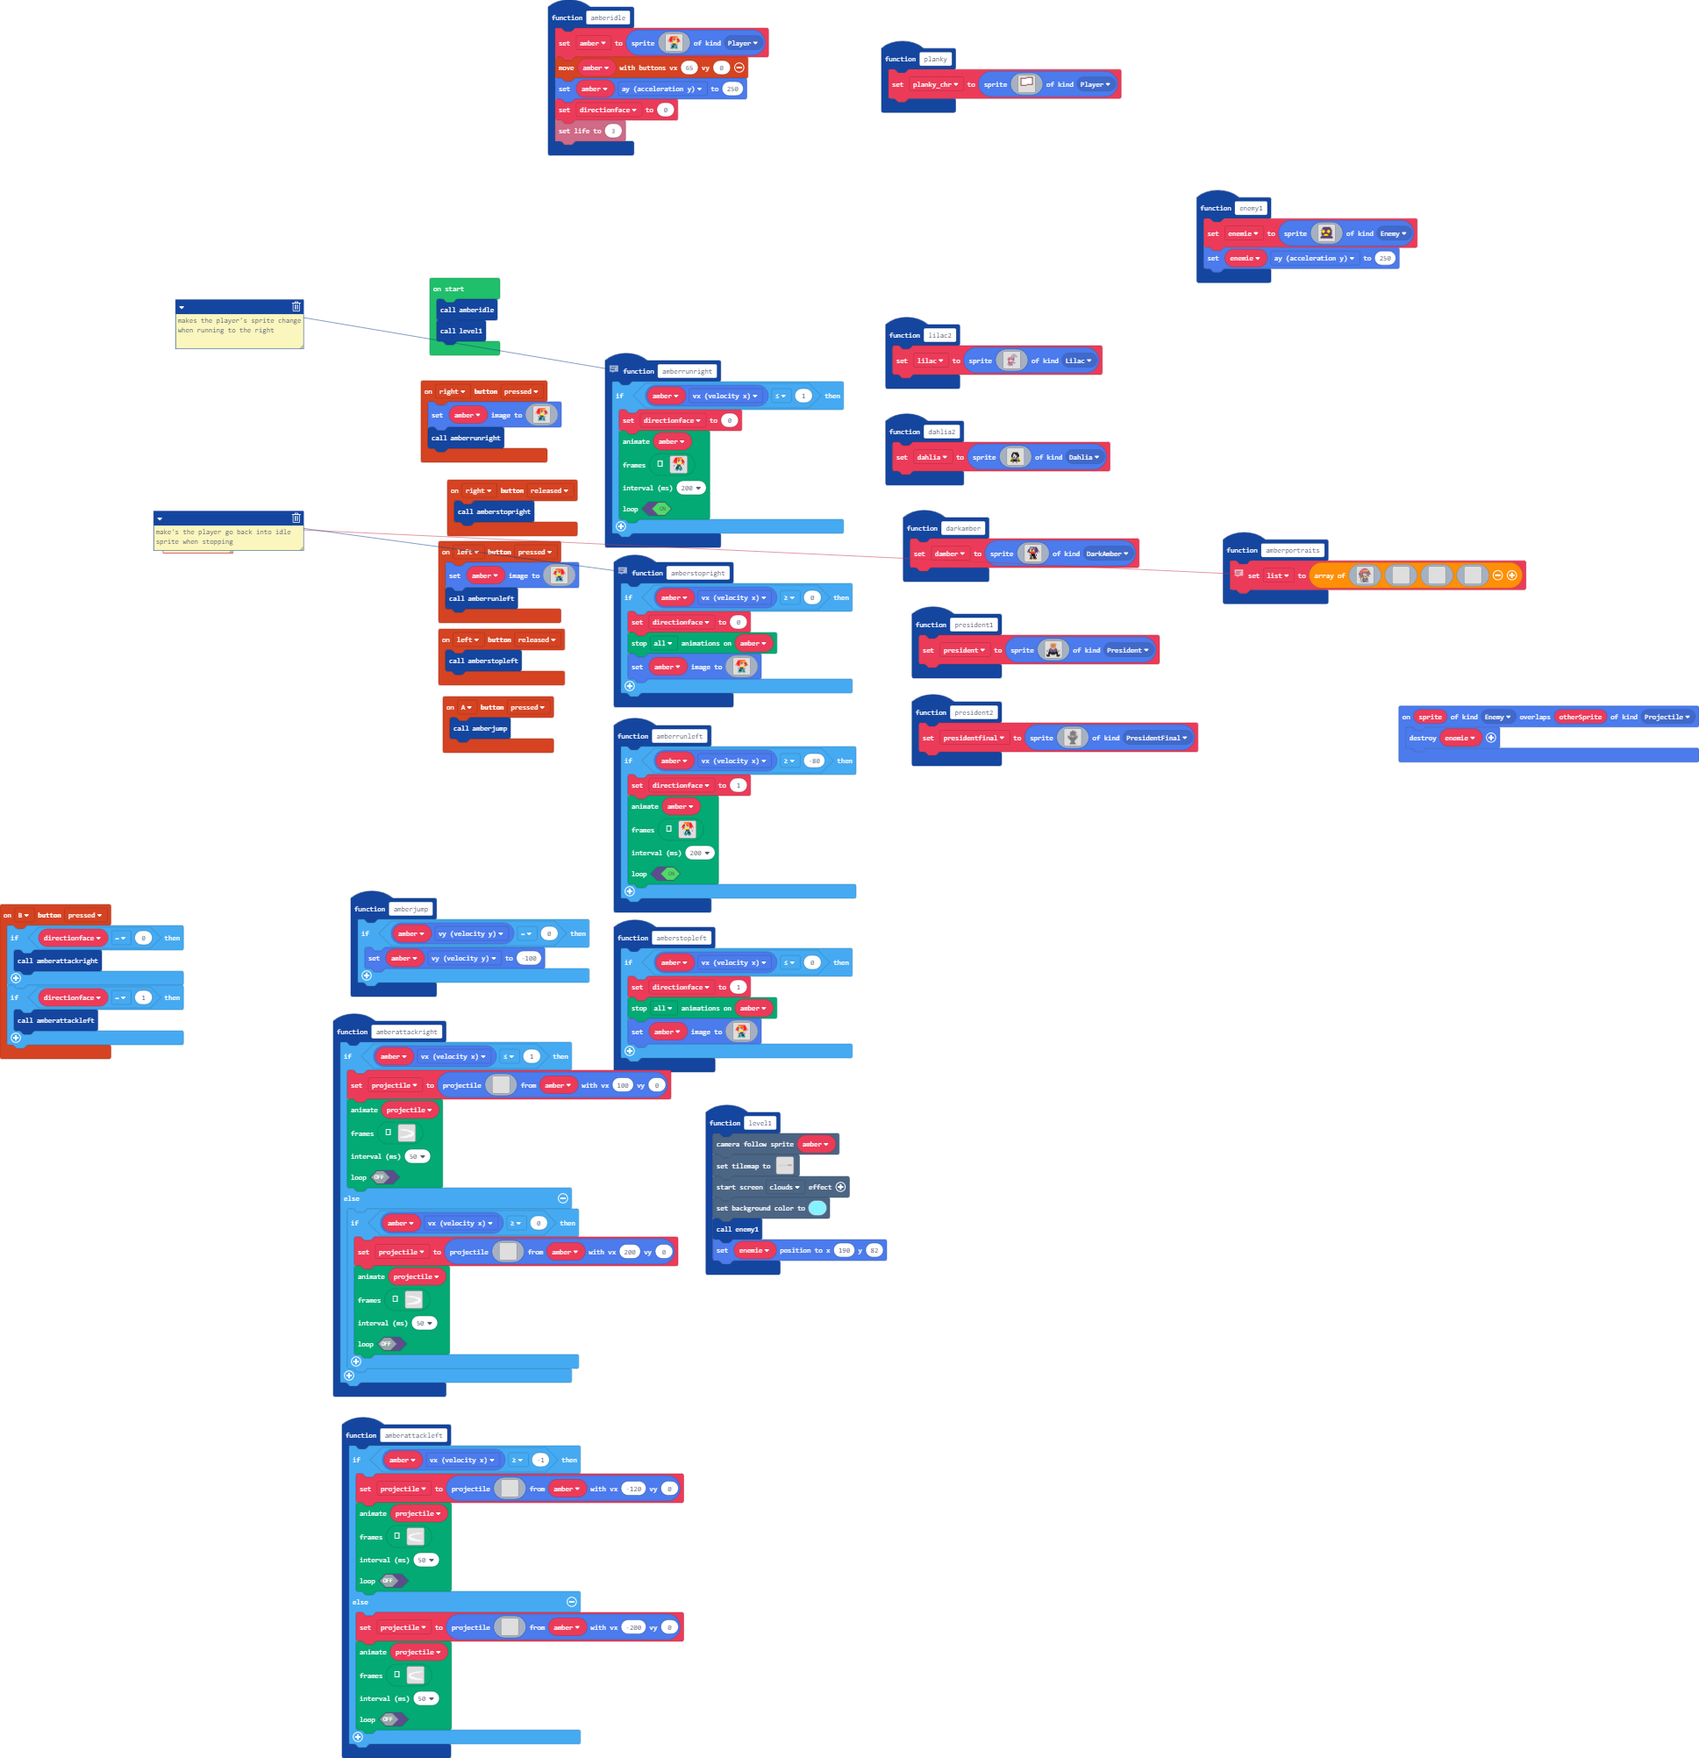
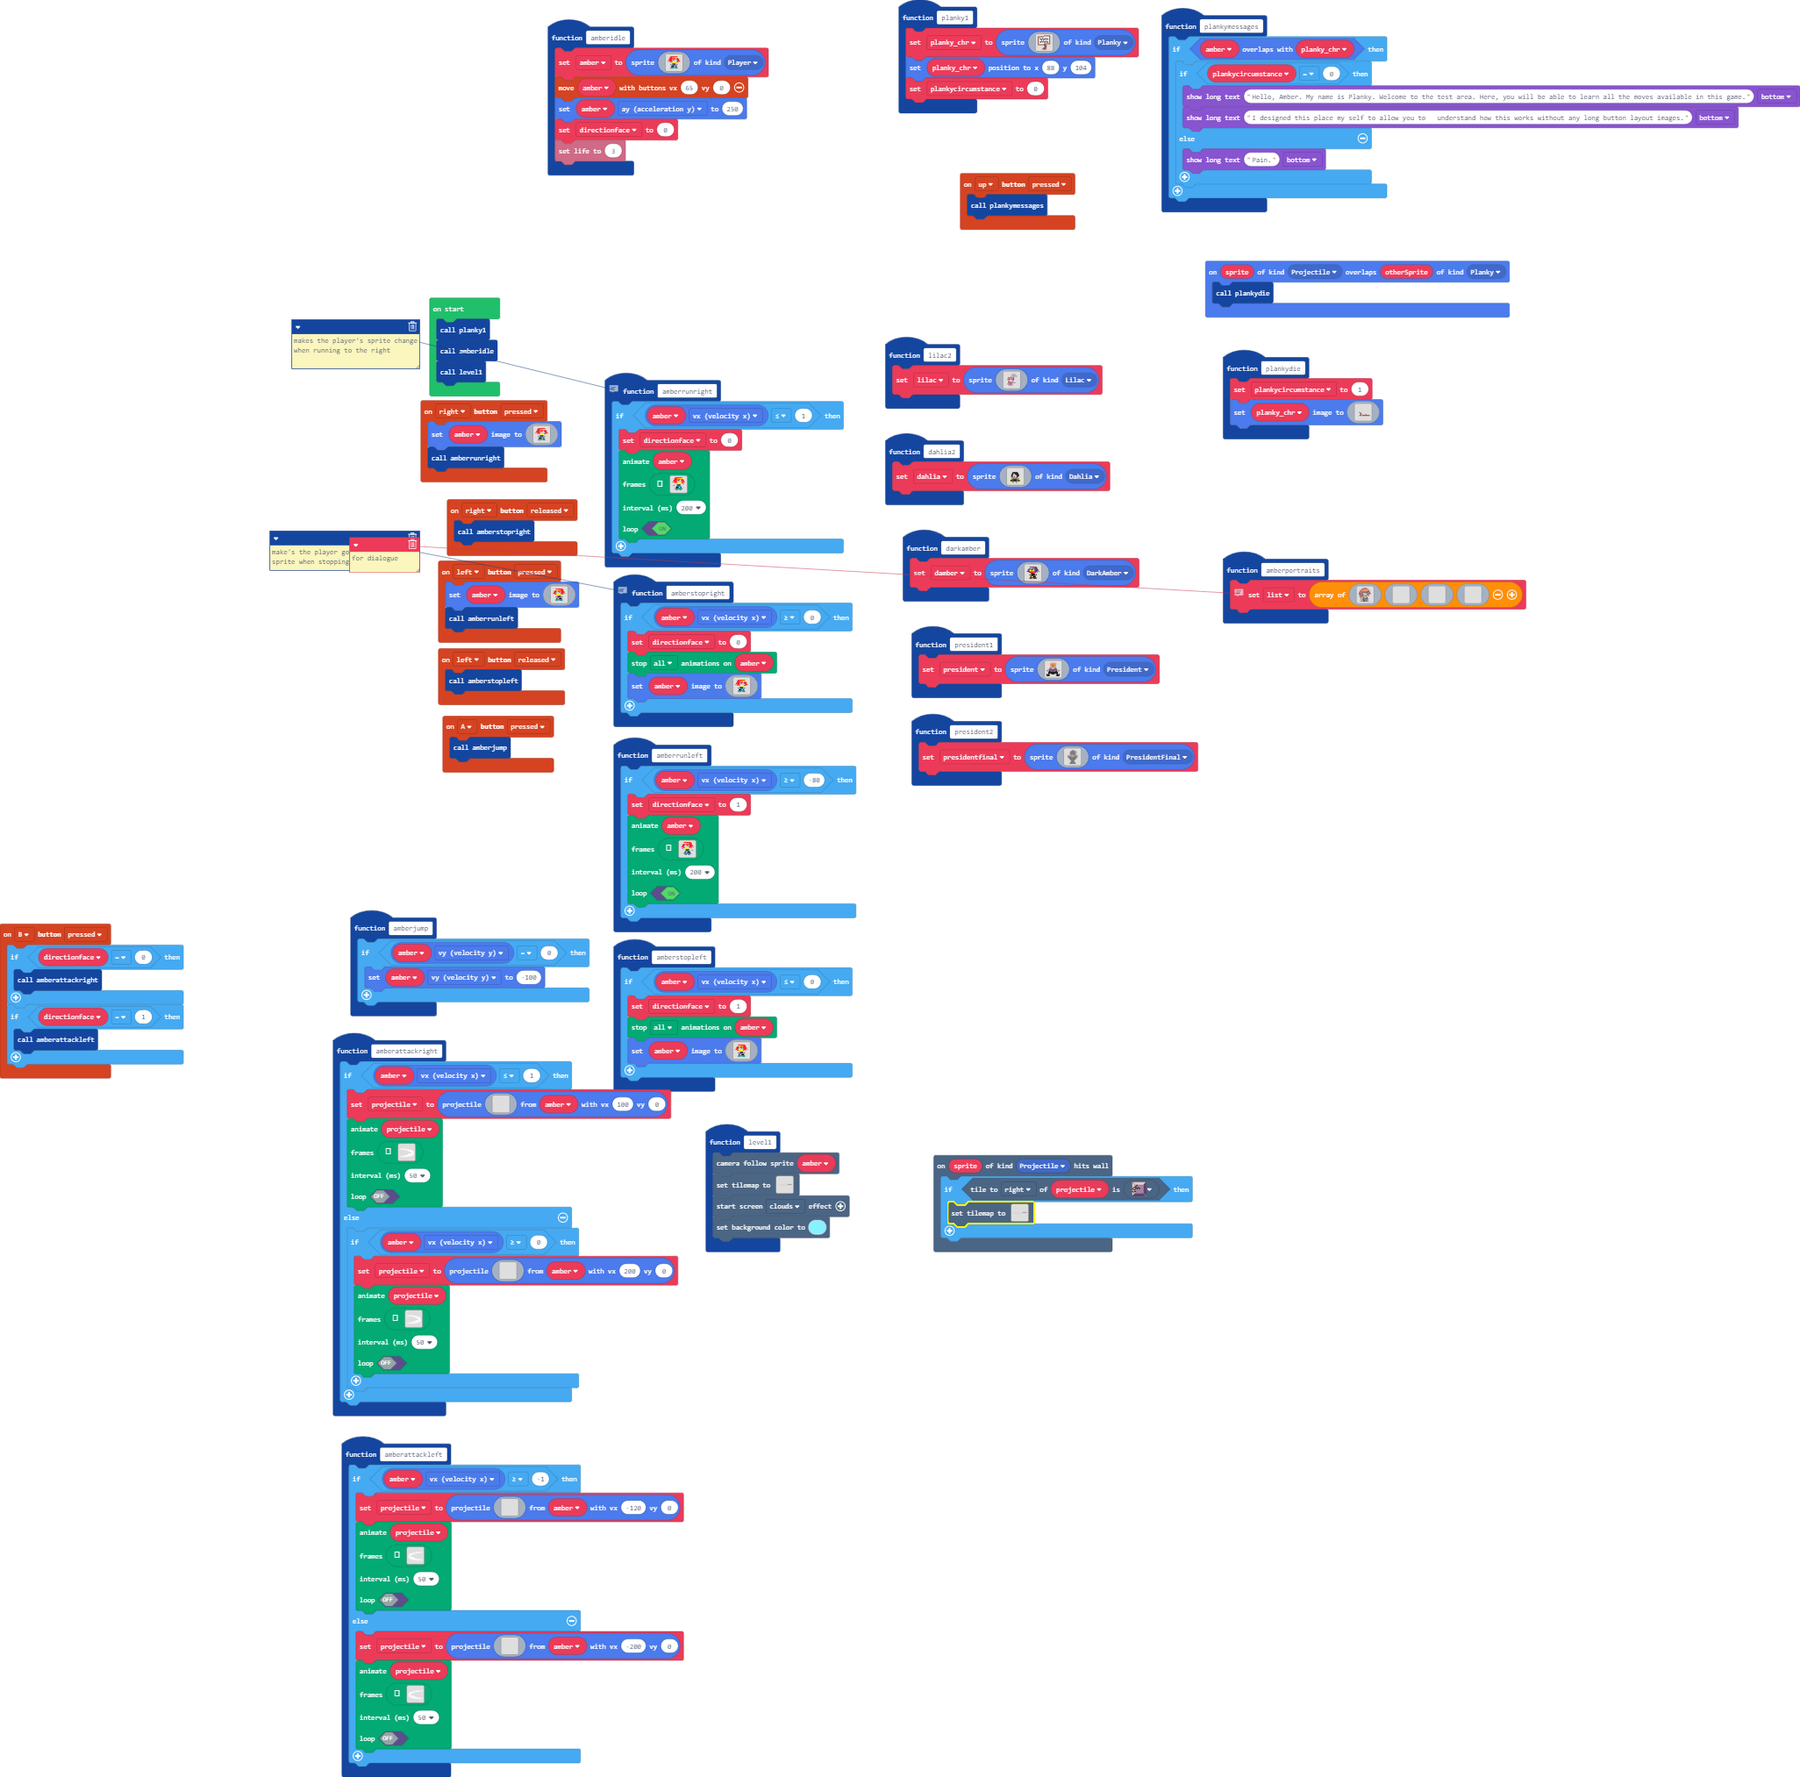
Update main.blocks, main.ts

diff --git a/main.ts b/main.ts
@@ -4,6 +4,7 @@ namespace SpriteKind {
     export const DarkAmber = SpriteKind.create()
     export const President = SpriteKind.create()
     export const PresidentFinal = SpriteKind.create()
+    export const Planky = SpriteKind.create()
 }
 namespace myTiles {
     //% blockIdentity=images._tile
@@ -120,48 +121,117 @@ c c c c c c c c c c c c c c c c
 . . . . . . . e e e . . . . . . 
 . . . . . . e e e e e . . . . . 
 `
+    //% blockIdentity=images._tile
+    export const tile7 = img`
+b d d d d d d d d d d d d d d c 
+d b d d d d d d d d d d d d c c 
+d d b d d d d d d d d d d c c c 
+d d d b b f b b b b b b b c c c 
+d d d b f b b b b b b b b c c c 
+d d f f b b b b b b b b b c c c 
+d f d b f b f f b b b b b c c c 
+f d d f b f b b f b b b b c c c 
+d f f b b b b b b b b b b c c c 
+d d d b b b b b b b b b b c c c 
+f d f f b b b b b b b b b c c c 
+d f d b b b b b b b b b b c c c 
+d d d b b b b b b b b b b c c c 
+d d c c c c c c c c c c c b c c 
+d c c c c c c c c c c c c c b c 
+c c c c c c c c c c c c c c c b 
+`
+    //% blockIdentity=images._tile
+    export const tile8 = img`
+c c c c c c c c c c c c c c c c 
+c c c c c c c c c 2 c c c c c c 
+c c c c c c c c c 2 2 c c c c c 
+c c c c c c c c c 2 2 2 c c c c 
+c c c c c c c c c 2 2 2 2 c c c 
+c c c c c c c c c 2 2 2 2 2 c c 
+c 2 2 2 2 2 2 2 2 2 2 2 2 2 2 c 
+c 2 2 2 2 2 2 2 2 2 2 2 2 2 2 2 
+c 2 2 2 2 2 2 2 2 2 2 2 2 2 2 2 
+c 2 2 2 2 2 2 2 2 2 2 2 2 2 2 c 
+c c c c c c c c c 2 2 2 2 2 c c 
+c c c c c c c c c 2 2 2 2 c c c 
+c c c c c c c c c 2 2 2 c c c c 
+c c c c c c c c c 2 2 c c c c c 
+c c c c c c c c c 2 c c c c c c 
+c c c c c c c c c c c c c c c c 
+`
 }
-function planky () {
+function planky1 () {
     planky_chr = sprites.create(img`
 . . . . . . . . e e e e e e e . 
 . e e e e e e e 1 1 1 1 1 1 e . 
 . e 1 1 1 1 1 1 1 1 1 1 1 1 e . 
+. e 1 f 1 1 f 1 1 f 1 f 1 1 e . 
+. e 1 1 f f 1 f f 1 f 1 f 1 e . 
 . e 1 1 1 1 1 1 1 1 1 1 1 1 e . 
-. e 1 1 1 1 1 1 1 1 1 1 1 1 e . 
-. e 1 1 1 1 1 1 1 1 1 1 1 1 e . 
-. e 1 1 1 1 1 1 1 1 1 1 1 1 e . 
+. e 1 1 1 f 1 f 1 1 f 1 1 1 e . 
+. e 1 f f 1 f 1 f f 1 f f 1 e . 
 . e 1 1 1 1 1 1 1 1 1 1 1 1 e . 
 . e 1 1 1 1 1 1 e e e e e e e . 
-. e e e e e e e . . . . . . . . 
-. . . . . . . . . . . . . . . . 
-. . . . . . . . . . . . . . . . 
-. . . . . . . . . . . . . . . . 
-. . . . . . . . . . . . . . . . 
-. . . . . . . . . . . . . . . . 
-. . . . . . . . . . . . . . . . 
-`, SpriteKind.Player)
+. e e e e e e e e e . . . . . . 
+. . . . . . . . e e e . . . . . 
+. . . . . . . . . e e . . . . . 
+. . . . . . . . e e e . . . . . 
+. . . . . . . e e e . . . . . . 
+. . . . . . e e e e e . . . . . 
+`, SpriteKind.Planky)
+    planky_chr.setPosition(88, 104)
+    plankycircumstance = 0
+}
+function plankymessages () {
+    if (amber.overlapsWith(planky_chr)) {
+        if (plankycircumstance == 0) {
+            game.showLongText("Hello, Amber. My name is Planky. Welcome to the test area. Here, you will be able to learn all the moves available in this game.", DialogLayout.Bottom)
+            game.showLongText("I designed this place my self to allow you to   understand how this works without any long button layout images.", DialogLayout.Bottom)
+        } else {
+            game.showLongText("Pain.", DialogLayout.Bottom)
+        }
+    }
+}
+function plankydie () {
+    plankycircumstance = 1
+    planky_chr.setImage(img`
+. . . . . . . . . . . . . . . . . . . . . . . . . . . . 
+. . . . . . . . . . . . . . . . . . . . . . . . . . . . 
+. . . . . . . . . . . . . . . . . . . . . . . . . . . . 
+. . . . . . . . . . . . . . . . . . . . . . . . . . . . 
+. . . . . . . . . . . . . . . . . . . . . . . . . . . . 
+. . . . . . . . . . . . . . . . . . . . . . . . . . . . 
+. . . . . . . . . . . . . . . . . . . . . . . . . . . . 
+. . . . . . . . . . . . . . . . . . . . . . . . . . . . 
+. . . . . . e . . . . . . . . . . . . . . . . . . . . . 
+. . . . . . e . e . . . . . . . . . . . . . . . . . . . 
+. . . . . . . e e e . . . . . . . . . . . . . . . . . . 
+. . . . . . . . e e e . . . . . . . . . . . . . . . . . 
+. . . . . . . . . e e . . . . . . . . e . . . . . . . . 
+. . . . . . . . e e e . . . . . . e . e . . . . . . . . 
+. . . . . . . e e e . . e e e e e e e e e e e e e e e . 
+. . . . . . e e e e e . e e e e e e e e e e e e e e e . 
+`)
 }
 function level1 () {
     scene.cameraFollowSprite(amber)
     tiles.setTilemap(tiles.createTilemap(
-            hex`640008000000000000000000000000000000000000000000000000000000000000000000000000000000000000000000000000000000000000000000000000000000000000000000020202020202020202020202020202020202020202020202020202020202020200000000000000000000000000000000000000000000000000000000000000000000000000000000000000000000000000000000000000000000000000000000000000000202020202020202020202020202020202020202020202020202020202020202000000000000000000000000000000000000000000000000000000000000000000000000000000000000000000000000000000000000000000000000000000000000000002020202020202020202020202020202020202020202020202020202020202020000000000000000000000000000000000000000000000000000000000000000000000000000000000000000000000000000000000000000000000000000000000000000020202020202020202020202020202020202020202020202020202020202020200000000000000000000000000000000000000000000000000000000000000000000000000000000000000000000000000000000000000000000000000000000000000000202020202020202020202020202020204040404040404040404040404040404000000000000000000000000000500000001010101000000000000000000010000000100000001000000010101010100000000000000000000000000000000000000000004040404040404040404040404040404040404040404040404040404040404040000000000050000010101010101010000020202020101010101010101000000000000000000000000050202020202010101000000000005000000000000000000000005040404040404040404040404040404040404010101010101010101010101010101010101010101010202020202020201010202020202020202020202020101010101010101010101010102020202020202020101010101010101010101010101010101010101010101010101010101010101010101010202020202020202020202020202`,
+            hex`640008000000000000000000000000000000000000000000000000000000000000000000000000000000000000000000000000000000000000000000000000000000000000000000020202020202020202020202020202020202020202020202020202020202020200000000000000000000000000000000000000000000000000000000000000000000000000000000000000000000000000000000000000000000000000000000000000000202020202020202020202020202020202020202020202020202020202020202000000000000000000000000000000000000000000000000000000000000000000000000000000000000000000000000000000000000000000000000000000000000000002020202020202020202020202020202020202020202020202020202020202020000000000000000000000000000000000000000000000000000000000000000000000000000000000000000000000000000000000000000000000000000000000000000020202020202020202020202020202020202020202020202020202020202020200000000000000000000000000000000000000000000000000000000000000000000000000000000000000000000000000000000000000000000000000000000000000000202020202020202020202020202020204040404040404040404040404040404000000000000000000000000000000000001010101000000000000000000010000000100000001000000010101010100000000000000000000000000000000000000000604040404040404040404040404040404040404040404040404040404040404040000000000000000010101010101010000020202020101010101010101000000000000000000000000000202020202010101000000000000000000000000000000000006040404040404040404040404040404040404010101010101010101010101010101010101010101010202020202020201010202020202020202020202020101010101010101010101010102020202020202020101010101010101010101010101010101010101010101010101010101010101010101010202020202020202020202020202`,
             img`
 . . . . . . . . . . . . . . . . . . . . . . . . . . . . . . . . . . . . . . . . . . . . . . . . . . . . . . . . . . . . . . . . . . . . 2 2 2 2 2 2 2 2 2 2 2 2 2 2 2 2 2 2 2 2 2 2 2 2 2 2 2 2 2 2 2 2 
 . . . . . . . . . . . . . . . . . . . . . . . . . . . . . . . . . . . . . . . . . . . . . . . . . . . . . . . . . . . . . . . . . . . . 2 2 2 2 2 2 2 2 2 2 2 2 2 2 2 2 2 2 2 2 2 2 2 2 2 2 2 2 2 2 2 2 
 . . . . . . . . . . . . . . . . . . . . . . . . . . . . . . . . . . . . . . . . . . . . . . . . . . . . . . . . . . . . . . . . . . . . 2 2 2 2 2 2 2 2 2 2 2 2 2 2 2 2 2 2 2 2 2 2 2 2 2 2 2 2 2 2 2 2 
 . . . . . . . . . . . . . . . . . . . . . . . . . . . . . . . . . . . . . . . . . . . . . . . . . . . . . . . . . . . . . . . . . . . . 2 2 2 2 2 2 2 2 2 2 2 2 2 2 2 2 2 2 2 2 2 2 2 2 2 2 2 2 2 2 2 2 
 . . . . . . . . . . . . . . . . . . . . . . . . . . . . . . . . . . . . . . . . . . . . . . . . . . . . . . . . . . . . . . . . . . . . 2 2 2 2 2 2 2 2 2 2 2 2 2 2 2 2 . . . . . . . . . . . . . . . . 
-. . . . . . . . . . . . . . . . . 2 2 2 2 . . . . . . . . . 2 . . . 2 . . . 2 . . . 2 2 2 2 2 . . . . . . . . . . . . . . . . . . . . . . . . . . . . . . . . . . . . . . . . . . . . . . . . . . . . . 
-. . . . . . . . 2 2 2 2 2 2 2 . . 2 2 2 2 2 2 2 2 2 2 2 2 . . . . . . . . . . . . . 2 2 2 2 2 2 2 2 . . . . . . . . . . . . . . . . . . . . . . . . . . . . . . . . . . . . 2 2 2 2 2 2 2 2 2 2 2 2 2 2 
+. . . . . . . . . . . . . . . . . 2 2 2 2 . . . . . . . . . 2 . . . 2 . . . 2 . . . 2 2 2 2 2 . . . . . . . . . . . . . . . . . . . . 2 . . . . . . . . . . . . . . . . . . . . . . . . . . . . . . . . 
+. . . . . . . . 2 2 2 2 2 2 2 . . 2 2 2 2 2 2 2 2 2 2 2 2 . . . . . . . . . . . . . 2 2 2 2 2 2 2 2 . . . . . . . . . . . . . . . . . 2 . . . . . . . . . . . . . . . . . . 2 2 2 2 2 2 2 2 2 2 2 2 2 2 
 2 2 2 2 2 2 2 2 2 2 2 2 2 2 2 2 2 2 2 2 2 2 2 2 2 2 2 2 2 2 2 2 2 2 2 2 2 2 2 2 2 2 2 2 2 2 2 2 2 2 2 2 2 2 2 2 2 2 2 2 2 2 2 2 2 2 2 2 2 2 2 2 2 2 2 2 2 2 2 2 2 2 2 2 2 2 2 2 2 2 2 2 2 2 2 2 2 2 2 2 
 `,
-            [myTiles.tile0,myTiles.tile1,myTiles.tile3,myTiles.tile4,myTiles.tile5,myTiles.tile6],
+            [myTiles.tile0,myTiles.tile1,myTiles.tile3,myTiles.tile4,myTiles.tile5,myTiles.tile6,myTiles.tile7,myTiles.tile8],
             TileScale.Sixteen
         ))
     effects.clouds.startScreenEffect()
     scene.setBackgroundColor(9)
-    enemy1()
-    enemie.setPosition(190, 82)
 }
 controller.left.onEvent(ControllerButtonEvent.Pressed, function () {
     amber.setImage(img`
@@ -434,30 +504,6 @@ function amberidle () {
     directionface = 0
     info.setLife(3)
 }
-function enemy1 () {
-    enemie = sprites.create(img`
-. . . . . . . . . . . . . . . . 
-. . . . c c c c c c c c . . . . 
-. . . c c c c c c c c c c . . . 
-. . . c c c c c c c c c c . . . 
-. . c 4 5 c c c c 4 5 c c c . . 
-. . 4 5 5 5 c c 4 5 5 5 c c . . 
-. . 4 5 5 5 c c 4 5 5 5 c c . . 
-. . c 4 5 c c c c 4 5 c c c . . 
-. . c c c c c c c c c c c c . . 
-. . c c c 4 5 5 5 c c c c c . . 
-. . . c 4 5 5 5 5 5 c c c . . . 
-. . c c c c c c c c c c c c . . 
-. c c c c c c c c c c c c c c . 
-. c c c c c c c c c c c c c c . 
-. . . . . . . . . . . . . . . . 
-. . . . . . . . . . . . . . . . 
-`, SpriteKind.Enemy)
-    enemie.ay = 250
-}
-sprites.onOverlap(SpriteKind.Enemy, SpriteKind.Projectile, function (sprite, otherSprite) {
-    enemie.destroy()
-})
 function president2 () {
     presidentfinal = sprites.create(img`
 . . . . . . . . . . . . . . . . . . . . . . . . . . . . . . . . . . . . . . . . . . . . . . . . . . . . . . . . . . . . f . . . . . . . . . . . . . . . . . . . . . . . . . . . . . . . . . . . . . . . 
@@ -616,6 +662,25 @@ function amberstopleft () {
 `)
     }
 }
+scene.onHitWall(SpriteKind.Projectile, function (sprite) {
+    if (projectile.tileKindAt(TileDirection.Right, myTiles.tile7)) {
+        tiles.setTilemap(tiles.createTilemap(
+            hex`640008000000000000000000000000000000000000000000000000000000000000000000000000000000000000000000000000000000000000000000000000000000000000000000020202020202020202020202020202020202020202020202020202020202020200000000000000000000000000000000000000000000000000000000000000000000000000000000000000000000000000000000000000000000000000000000000000000202020202020202020202020202020202020202020202020202020202020202000000000000000000000000000000000000000000000000000000000000000000000000000000000000000000000000000000000000000000000000000000000000000002020202020202020202020202020202020202020202020202020202020202020000000000000000000000000000000000000000000000000000000000000000000000000000000000000000000000000000000000000000000000000000000000000000020202020202020202020202020202020202020202020202020202020202020200000000000000000000000000000000000000000000000000000000000000000000000000000000000000000000000000000000000000000000000000000000000000000202020202020202020202020202020204040404040404040404040404040404000000000000000000000000000000000001010101000000000000000000010000000100000001000000010101010100000000000000000000000000000000000000000004040404040404040404040404040404040404040404040404040404040404070000000000000000010101010101010000020202020101010101010101000000000000000000000000000202020202010101000000000000000000000000000000000000040404040404040404040404040404040404010101010101010101010101010101010101010101010202020202020201010202020202020202020202020101010101010101010101010102020202020202020101010101010101010101010101010101010101010101010101010101010101010101010202020202020202020202020202`,
+            img`
+. . . . . . . . . . . . . . . . . . . . . . . . . . . . . . . . . . . . . . . . . . . . . . . . . . . . . . . . . . . . . . . . . . . . 2 2 2 2 2 2 2 2 2 2 2 2 2 2 2 2 2 2 2 2 2 2 2 2 2 2 2 2 2 2 2 2 
+. . . . . . . . . . . . . . . . . . . . . . . . . . . . . . . . . . . . . . . . . . . . . . . . . . . . . . . . . . . . . . . . . . . . 2 2 2 2 2 2 2 2 2 2 2 2 2 2 2 2 2 2 2 2 2 2 2 2 2 2 2 2 2 2 2 2 
+. . . . . . . . . . . . . . . . . . . . . . . . . . . . . . . . . . . . . . . . . . . . . . . . . . . . . . . . . . . . . . . . . . . . 2 2 2 2 2 2 2 2 2 2 2 2 2 2 2 2 2 2 2 2 2 2 2 2 2 2 2 2 2 2 2 2 
+. . . . . . . . . . . . . . . . . . . . . . . . . . . . . . . . . . . . . . . . . . . . . . . . . . . . . . . . . . . . . . . . . . . . 2 2 2 2 2 2 2 2 2 2 2 2 2 2 2 2 2 2 2 2 2 2 2 2 2 2 2 2 2 2 2 2 
+. . . . . . . . . . . . . . . . . . . . . . . . . . . . . . . . . . . . . . . . . . . . . . . . . . . . . . . . . . . . . . . . . . . . 2 2 2 2 2 2 2 2 2 2 2 2 2 2 2 2 . . . . . . . . . . . . . . . . 
+. . . . . . . . . . . . . . . . . 2 2 2 2 . . . . . . . . . 2 . . . 2 . . . 2 . . . 2 2 2 2 2 . . . . . . . . . . . . . . . . . . . . . . . . . . . . . . . . . . . . . . . . . . . . . . . . . . . . . 
+. . . . . . . . 2 2 2 2 2 2 2 . . 2 2 2 2 2 2 2 2 2 2 2 2 . . . . . . . . . . . . . 2 2 2 2 2 2 2 2 . . . . . . . . . . . . . . . . . . . . . . . . . . . . . . . . . . . . 2 2 2 2 2 2 2 2 2 2 2 2 2 2 
+2 2 2 2 2 2 2 2 2 2 2 2 2 2 2 2 2 2 2 2 2 2 2 2 2 2 2 2 2 2 2 2 2 2 2 2 2 2 2 2 2 2 2 2 2 2 2 2 2 2 2 2 2 2 2 2 2 2 2 2 2 2 2 2 2 2 2 2 2 2 2 2 2 2 2 2 2 2 2 2 2 2 2 2 2 2 2 2 2 2 2 2 2 2 2 2 2 2 2 2 
+`,
+            [myTiles.tile0,myTiles.tile1,myTiles.tile3,myTiles.tile4,myTiles.tile5,myTiles.tile6,myTiles.tile7,myTiles.tile8],
+            TileScale.Sixteen
+        ))
+    }
+})
 controller.right.onEvent(ControllerButtonEvent.Pressed, function () {
     amber.setImage(img`
 . . . . . . . . . . . . . . . . 
@@ -1067,6 +1132,9 @@ function amberattackright () {
         }
     }
 }
+controller.up.onEvent(ControllerButtonEvent.Pressed, function () {
+    plankymessages()
+})
 // make's the player go back into idle sprite when
 // stopping
 function amberstopright () {
@@ -1093,6 +1161,9 @@ function amberstopright () {
 `)
     }
 }
+sprites.onOverlap(SpriteKind.Projectile, SpriteKind.Planky, function (sprite, otherSprite) {
+    plankydie()
+})
 function amberrunleft () {
     if (amber.vx >= -80) {
         directionface = 1
@@ -1180,8 +1251,9 @@ let presidentfinal: Sprite = null
 let projectile: Sprite = null
 let directionface = 0
 let president: Sprite = null
-let enemie: Sprite = null
 let amber: Sprite = null
+let plankycircumstance = 0
 let planky_chr: Sprite = null
+planky1()
 amberidle()
 level1()
